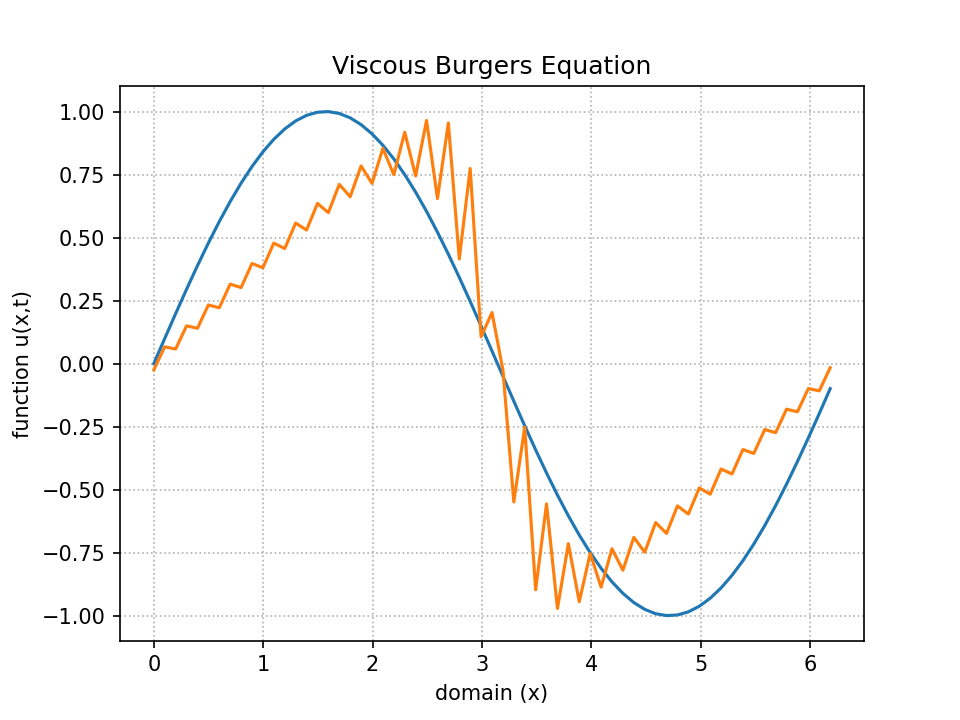
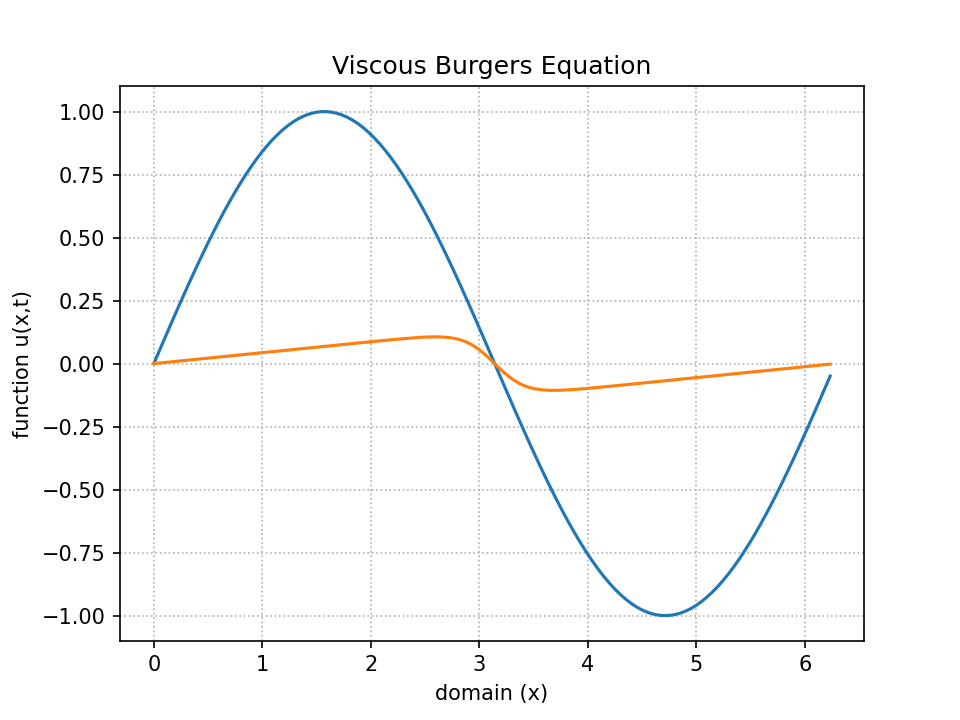
Partially working version - works with only certain parameter values

diff --git a/spectral_methods/viscous_Burgers_equation/burgers_eq.py b/spectral_methods/viscous_Burgers_equation/burgers_eq.py
@@ -24,13 +24,13 @@ def write_real(x, u, n):
 
 
 # define the parameters
-nx = 64  # grid points / sampling points
+nx = 128  # grid points / sampling points
 a = 0  # domain a to b
 b = 2.0*np.pi  # domain a to b
 dx = (b-a)/(nx-1)  # step size
-dt = 0.05  # time step
-nu = 0.1  # diffusivity
-Nt = 25  # of time steps
+dt = 0.01  # time step
+nu = 0.02  # diffusivity
+Nt = 2200  # of time steps
 save = 10  # save data every 'this' number of time steps
 # grid points (excludes last point)
 x = np.linspace(0.0, 2.0 * np.pi - dx, nx - 1)
